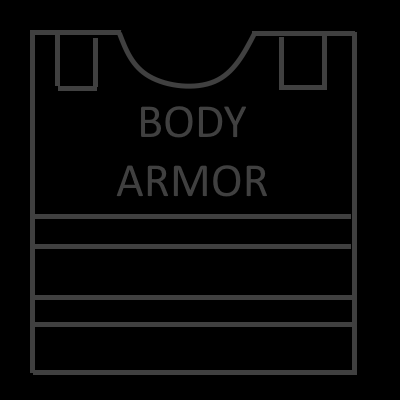
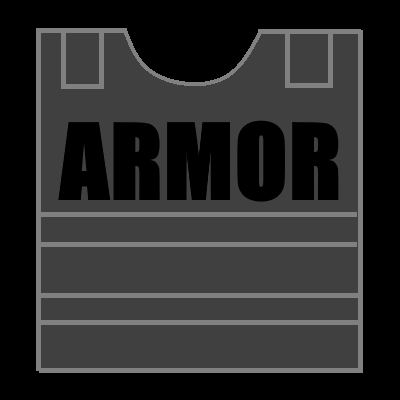
Update body armor image

diff --git a/hvzsite/static/css/base.css b/hvzsite/static/css/base.css
@@ -208,7 +208,7 @@ th, label {
     max-height: 100px;
 }
 
-.team_link, .login_alreadylogged a, #player_tags a {
+.team_link, .login_alreadylogged a, #player_tags a, .player_tag_div {
     text-decoration: none;
     color: rgb(30,30,30);
 }
